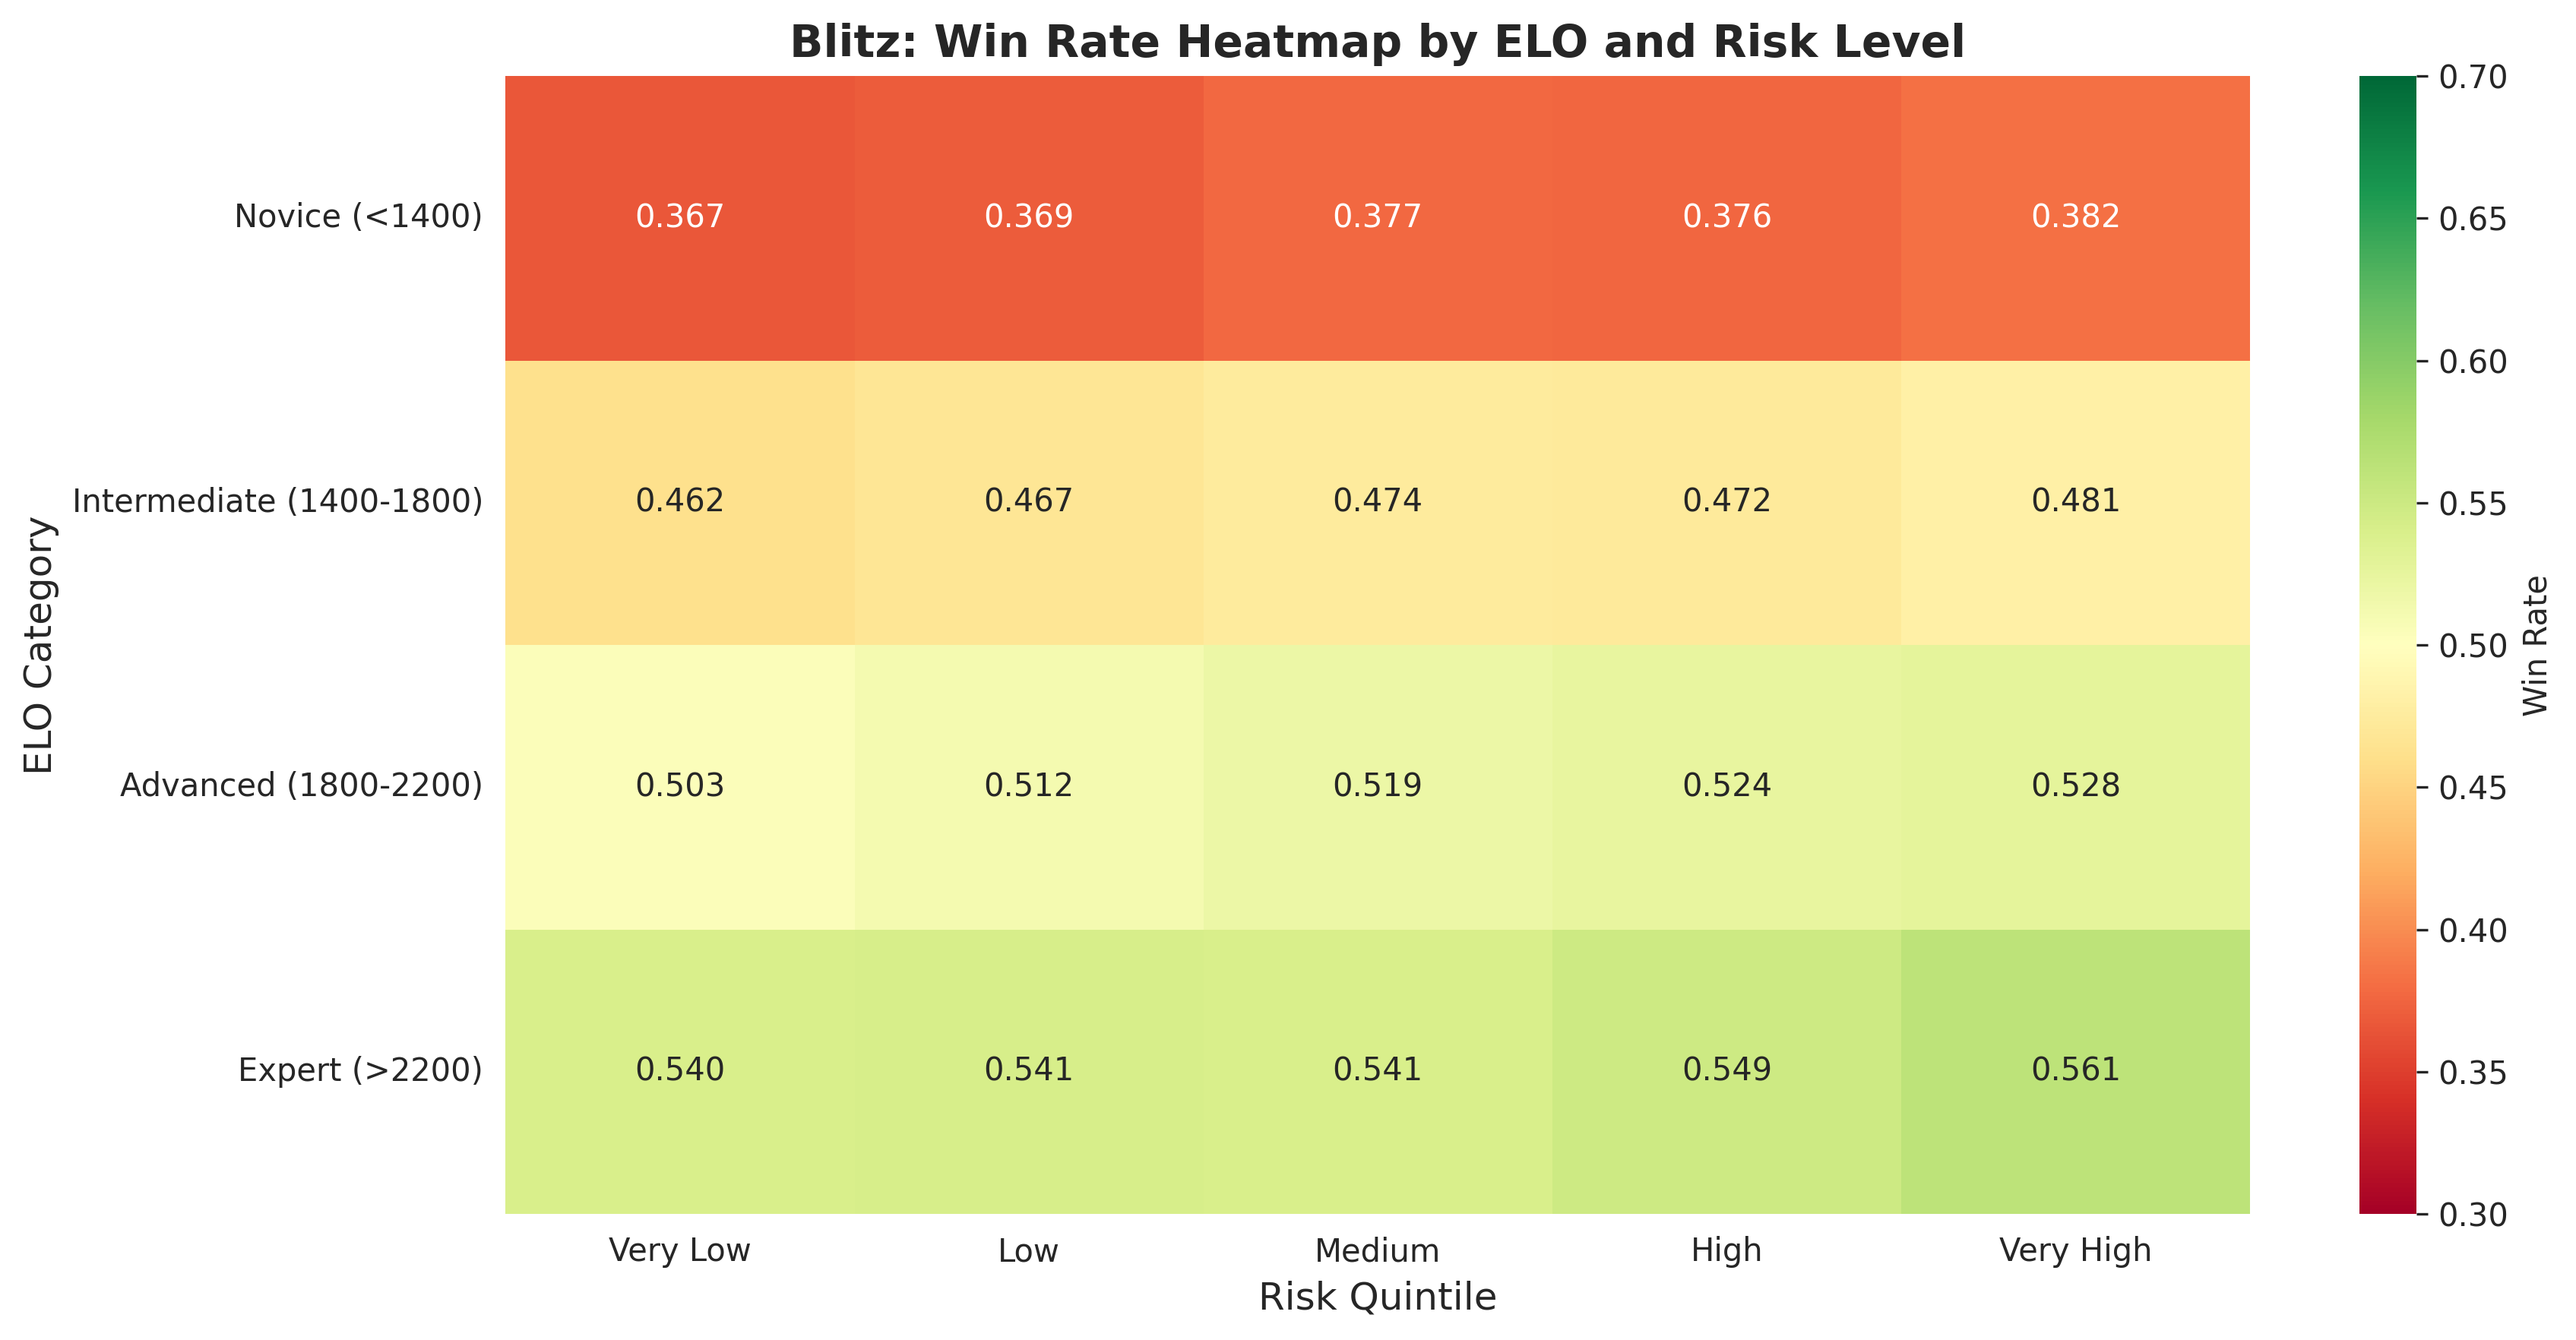
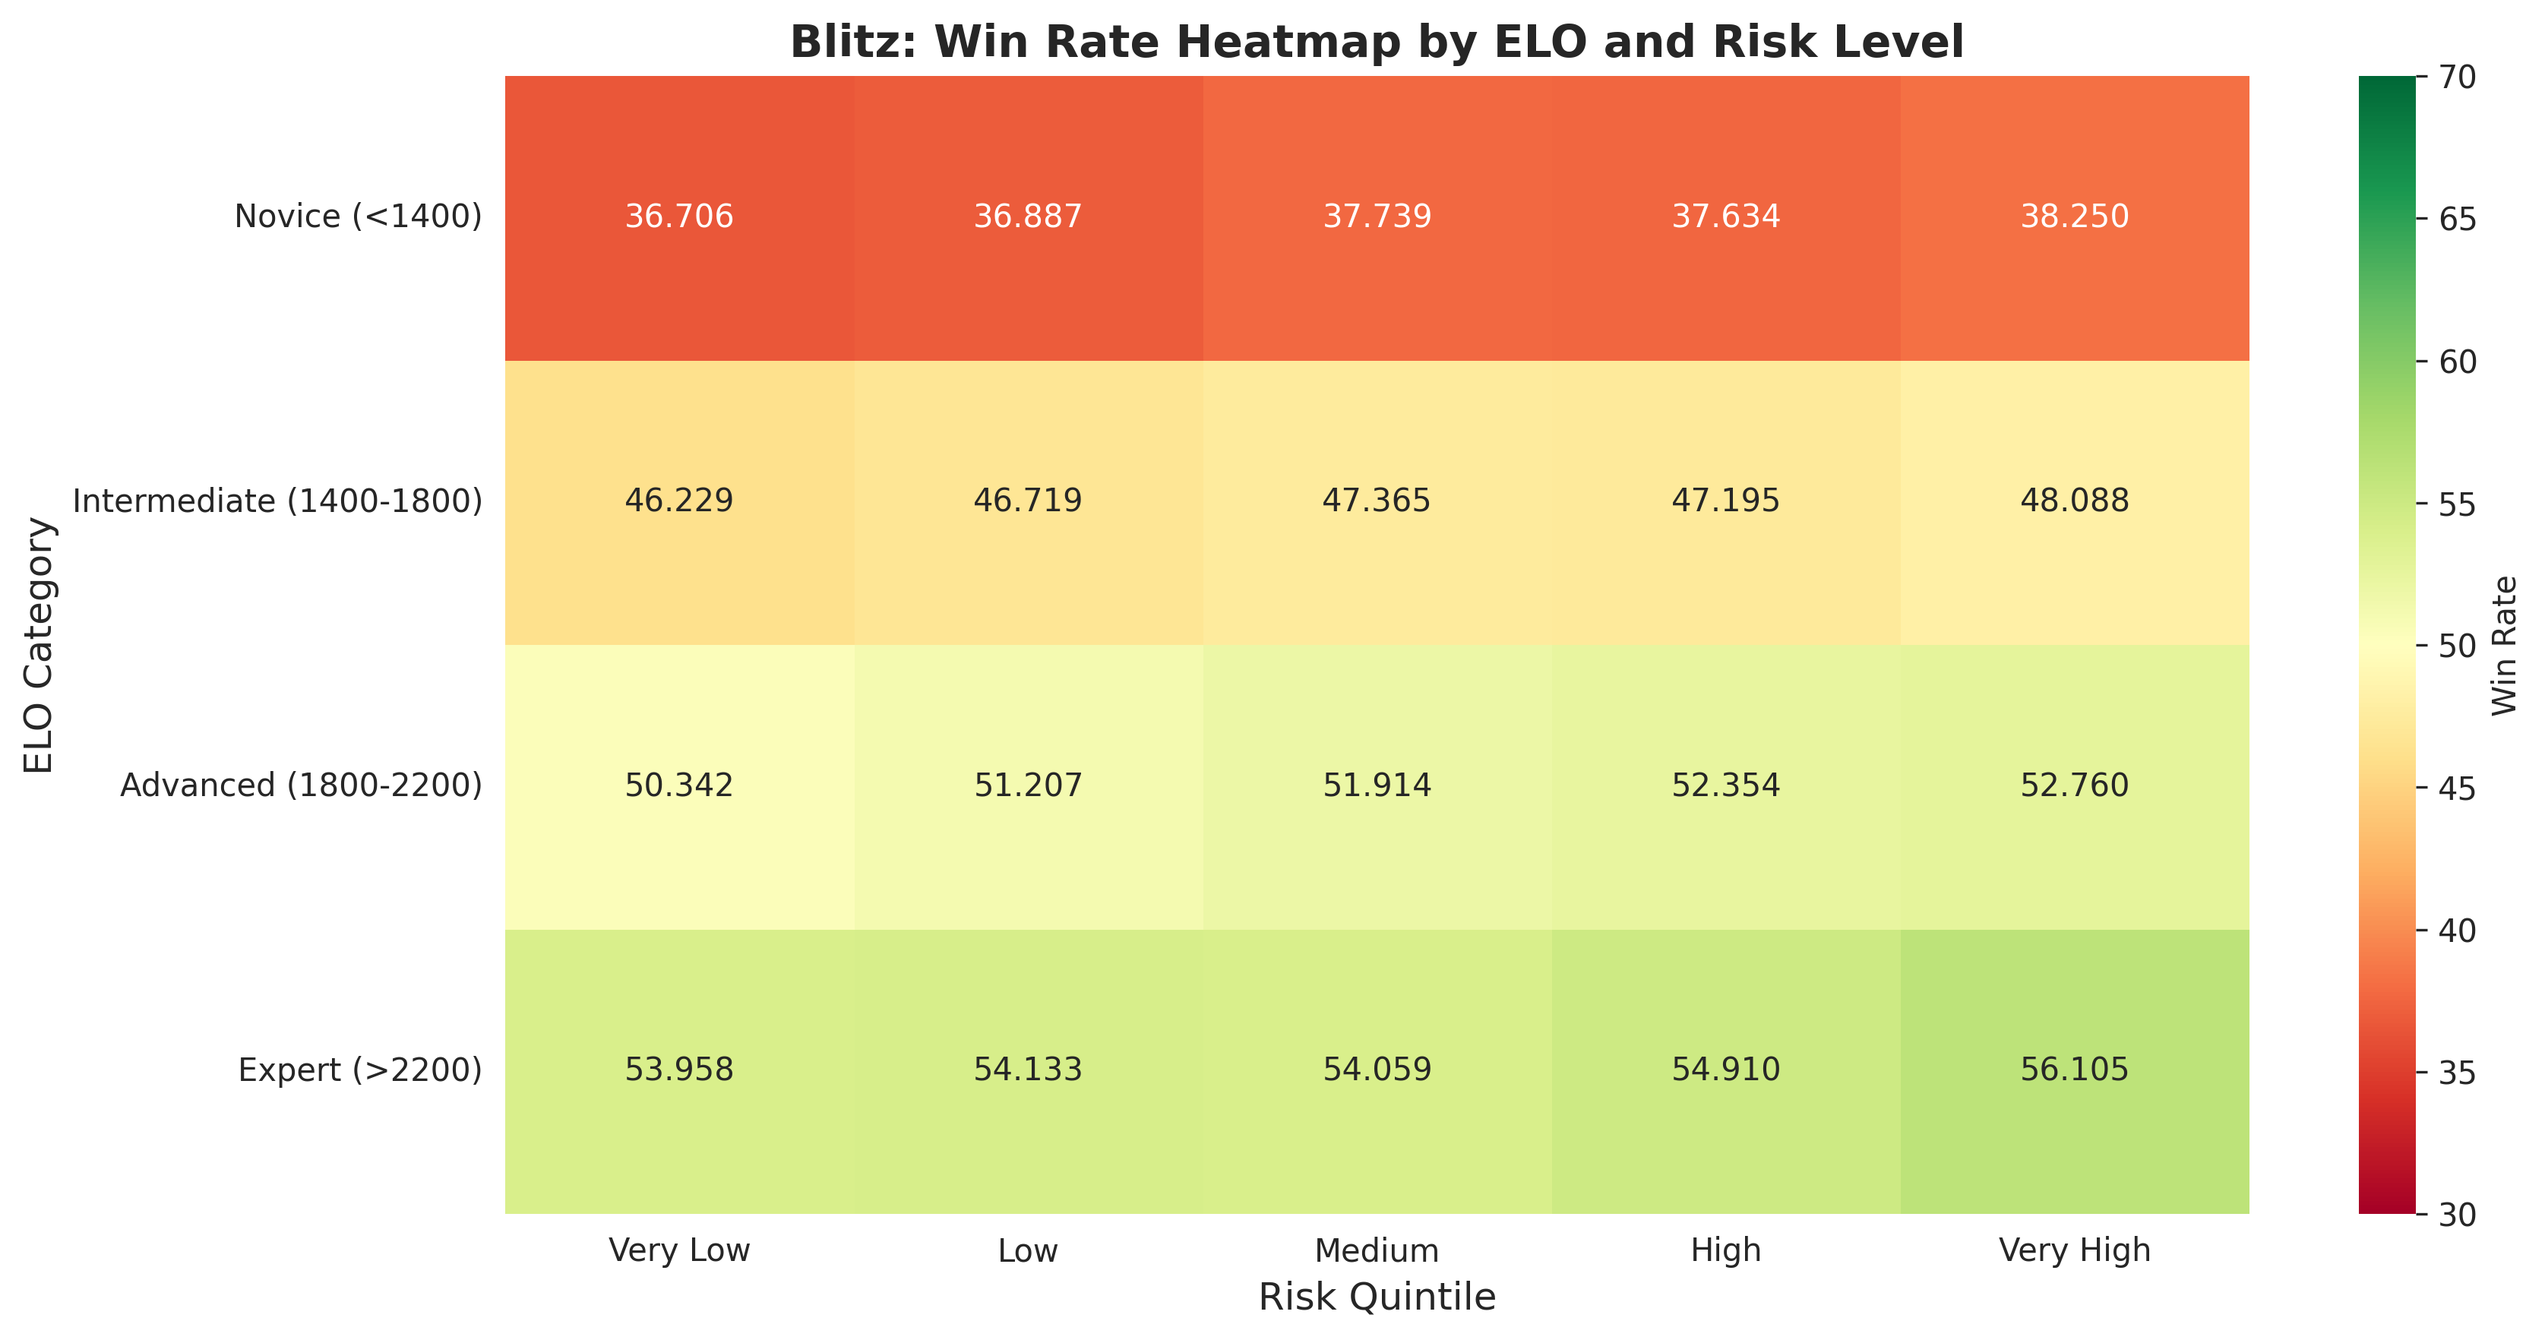
Updated the heatmap

diff --git a/app/affect_of_risk_per_elo.py b/app/affect_of_risk_per_elo.py
@@ -1,6 +1,5 @@
 # This file analyses the third research question
-
-#TODO: Expand this comment
+# Effect of opening risk on win probability conditional on player ELO
 
 import pandas as pd
 import numpy as np
@@ -27,9 +26,6 @@ for game_type in ["c", "b"]:
     
     game_name = 'Classical' if game_type == 'c' else 'Blitz'
     name_for_plot = 'classical' if game_type == 'c' else 'blitz'
-    print("\n" + "=" * 70)
-    print(f"ANALYSIS FOR {game_name} GAMES")
-    print("=" * 70)
     
     df = full_df[full_df["event"] == game_type].copy()
 
@@ -145,14 +141,6 @@ for game_type in ["c", "b"]:
     print(f"Interaction Coefficient: {interaction_coef:.4f}")
     print(f"Interaction P-value: {interaction_pval:.4f}")
     
-    if interaction_pval < 0.05:
-        if interaction_coef > 0:
-            print("H1 Accepted: Risk benefits higher-rated players more (positive interaction)")
-        else:
-            print("H1: Risk benefits lower-rated players more (negative interaction)")
-    else:
-        print("H0 Kept: No significant difference in risk effect across skill levels")
-    
 
     # PLOT 3: Model Predictions
     risk_range = np.linspace(player_df["mean_risk"].min(), 
@@ -194,16 +182,19 @@ for game_type in ["c", "b"]:
     plt.close()
     
     
-    # PLOT 6: Heatmap of Win Rates
+    # PLOT 4: Heatmap of Win Rates
     player_df["risk_quintile"] = pd.qcut(player_df["mean_risk"], q=5, 
                                          labels=["Very Low", "Low", "Medium", "High", "Very High"])
     
     heatmap_data = player_df.groupby(["elo_category", "risk_quintile"], observed=False)["win"].agg(['mean', 'count']).reset_index()
     heatmap_pivot = heatmap_data.pivot(index="elo_category", columns="risk_quintile", values="mean")
+    heatmap_data["mean"] = heatmap_data["mean"] * 100
+    heatmap_pivot = heatmap_data.pivot(index="elo_category", columns="risk_quintile", values="mean")
+
     
     plt.figure(figsize=(12, 6))
     sns.heatmap(heatmap_pivot, annot=True, fmt='.3f', cmap='RdYlGn', 
-               center=0.5, vmin=0.3, vmax=0.7, cbar_kws={'label': 'Win Rate'})
+               center=50, vmin=30, vmax=70, cbar_kws={'label': 'Win Rate'})
     plt.title(f"{game_name}: Win Rate Heatmap by ELO and Risk Level", 
              fontsize=14, fontweight='bold')
     plt.xlabel("Risk Quintile", fontsize=12)
